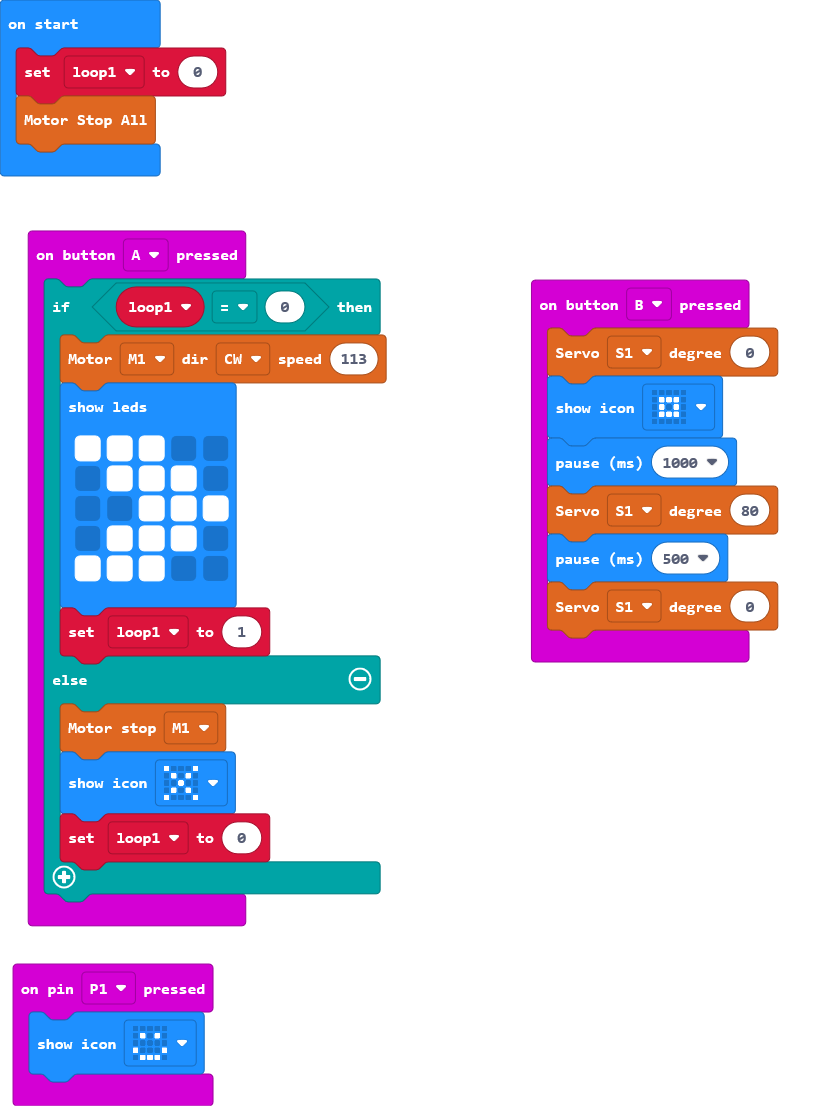
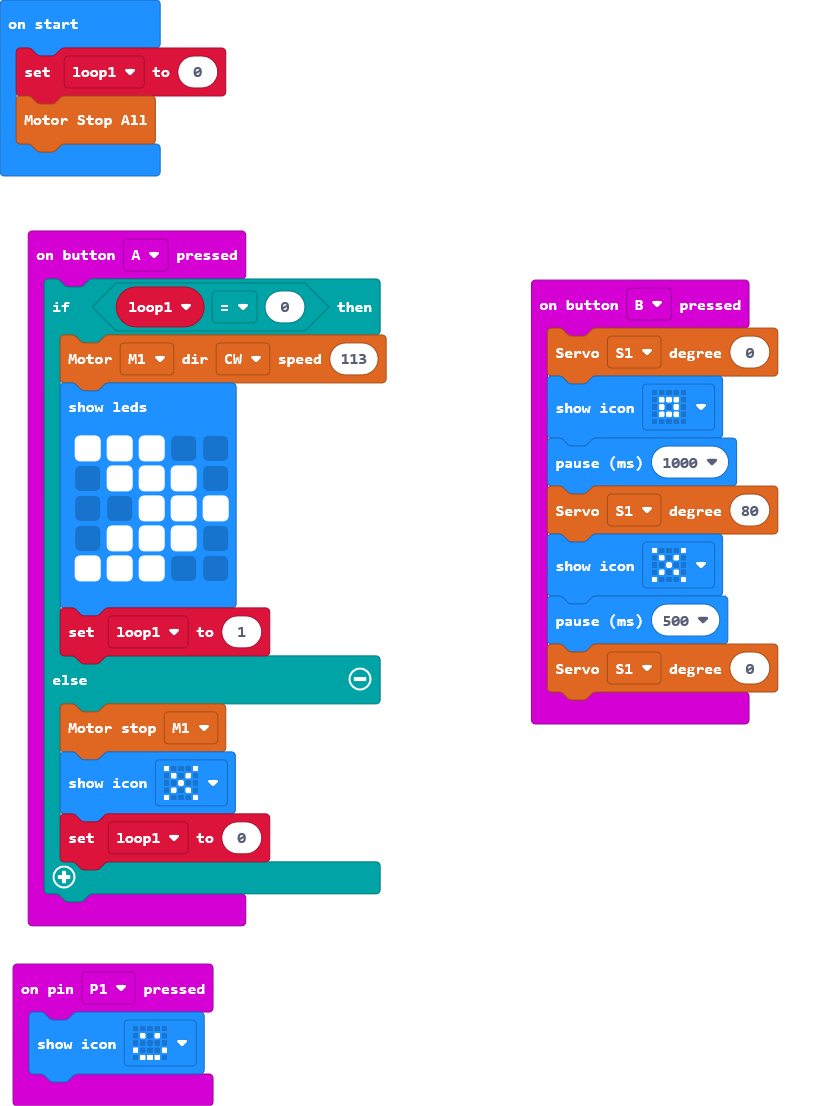
Update main.blocks, main.ts

Changed region(s): [[0.6333, 0.4919, 0.965, 0.6763]]

diff --git a/main.ts b/main.ts
@@ -20,6 +20,7 @@ input.onButtonPressed(Button.B, function () {
     basic.showIcon(IconNames.SmallSquare)
     basic.pause(1000)
     motor.servo(motor.Servos.S1, 80)
+    basic.showIcon(IconNames.No)
     basic.pause(500)
     motor.servo(motor.Servos.S1, 0)
 })
